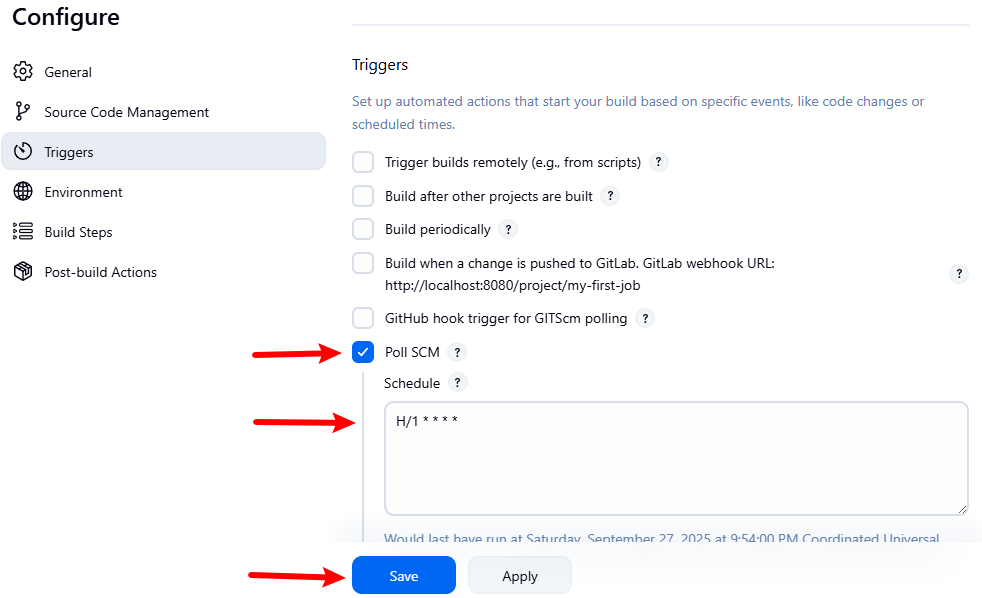
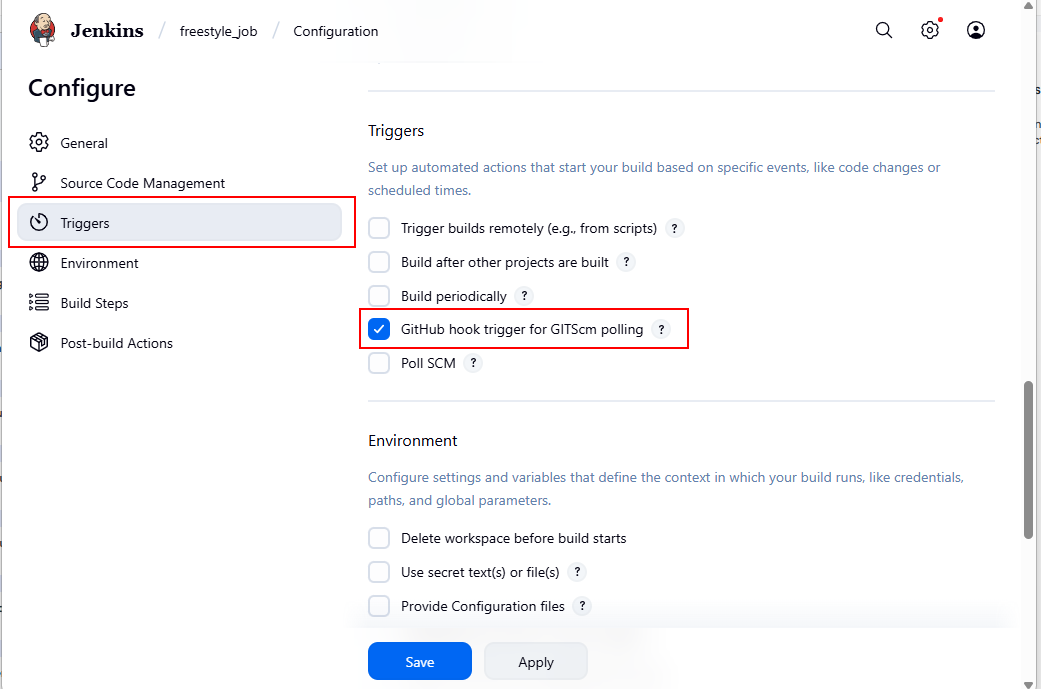
Introducing GitHub webhook to the FreeStyle Jenkins Job

diff --git a/README.md b/README.md
@@ -111,20 +111,42 @@ To automate builds when changes are made to the repository, configure a
 build trigger.
 
 From your project configuration page, scroll to **Build Triggers** and
-enable **Poll SCM**. Enter the following schedule:
-
-    H/1 * * * *
-
-This instructs Jenkins to check for changes every minute.
+enable **GitHub hook trigger for GITScm polling**.
 
 ![Jenkins Trigger](jenkins-trigger.png)
 
+### Creating a github webhook.
+In your GitHub repo click on;
+
+`Settings` > `Webhook` > `Add Webhook`
+
+![Add Webhook](add-webhook.png)
+
+On the add webhook page enter the following configuration and click on `Add Webhook`
+
+`Payload URL:`
+
+http://<EC2_PUBLIC_IP_OR_ELASTIC_IP>:8080/github-webhook/
+
+`Content type:` application/json
+
+`Which events would you like to trigger this webhook?`
+
+Select `Send me everything` for this example.
+
+![Webhook Configuration](webhook_settings.png)
+
+GitHub will send a test ping to Jenkins confirming successful connection. A `Response 200` indicates that the ping was successful
+
+![Webhook Ping](webhook_ping.png)
+
+With your webhook created any changes made and pushed to github will trigger a build in Jenkins.
+
+
 ## Conclusion
 
-By completing this project, you have successfully installed and
-configured Jenkins, created and connected a freestyle project to GitHub,
-and set up automated build triggers. With these foundations, you can now
-expand into advanced Jenkins capabilities such as pipelines, integration
-with Docker and Kubernetes, and deployment automation. Jenkins is a
-versatile tool that can significantly improve the efficiency,
-reliability, and scalability of modern software development workflows.
+This project demonstrates the fundamental setup and workflow of Jenkins as a CI/CD automation tool. From installation and initial configuration to creating jobs, connecting GitHub repositories, and automating builds through webhooks, you now have a complete understanding of how Jenkins streamlines software delivery.
+
+By integrating Jenkins with version control systems like GitHub, developers can ensure faster, more reliable, and consistent build and deployment pipelines. With this foundation in place, you can extend your Jenkins setup to include advanced automation—such as pipeline scripts, Docker integration, testing stages, and deployment to production environments.
+
+Jenkins serves as a cornerstone for modern DevOps practices, enabling teams to achieve continuous integration, continuous delivery, and continuous improvement in their development processes.
